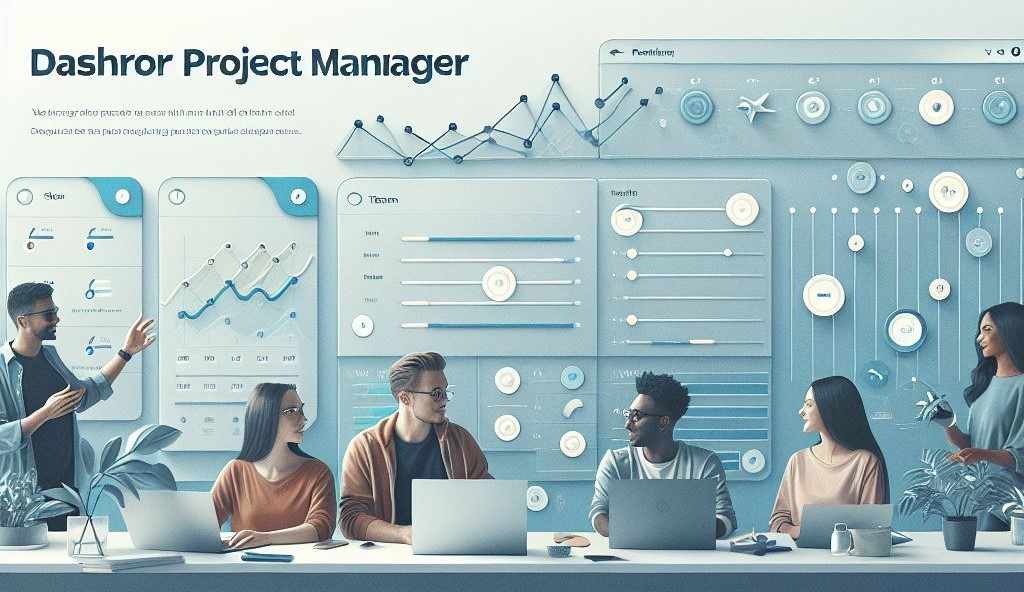
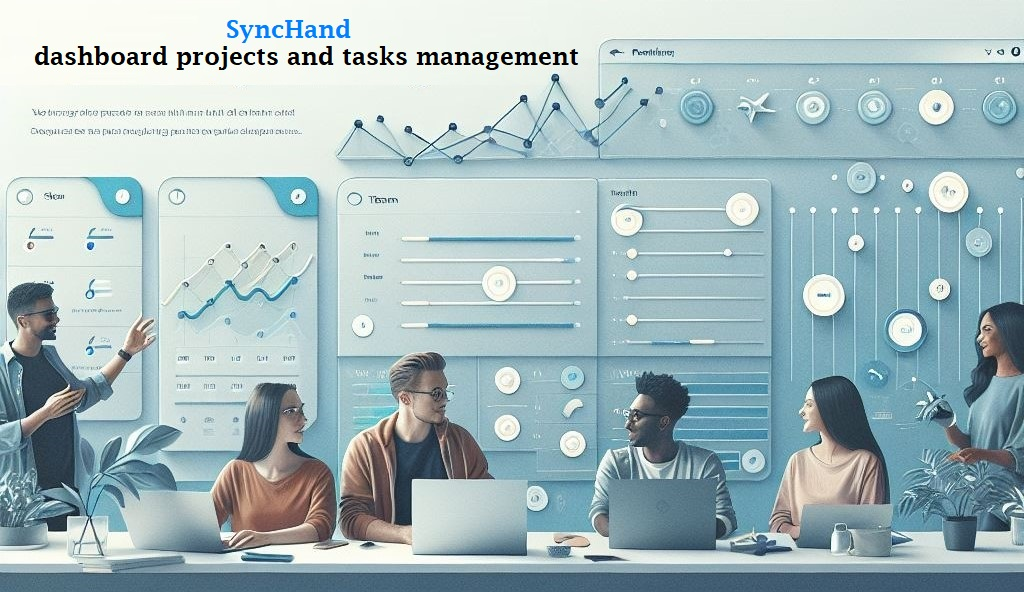
change landing page

Changed region(s): [[0.0312, 0.0304, 0.5625, 0.152]]

diff --git a/src/app/page.tsx b/src/app/page.tsx
@@ -134,7 +134,7 @@ const Features = () => {
   const features = [
     {
       id: 4,
-      name: "Smart Project and Tasks Management",
+      name: "Smart Projects and Tasks Management",
       icon: <Lightbulb className="text-sky-600 text-[32px]" />,
       description: `Create, edit, and delete projects and tasks with ease. Use sorting, filtering, and tabs to keep your workspace organized.
       `
@@ -153,7 +153,7 @@ const Features = () => {
   return (
     <div id="feature" data-aos="fade-down" className="py-12 bg-slate-50 mt-12 px-9">
       <div className="mx-auto px-4">
-        <h2 className="capitalize text-2xl font-bold text-center">synchand features</h2>
+        <h2 className="capitalize text-2xl font-bold text-center">syncHand features</h2>
         <div className="mt-12 grid grid-cols-1 md:grid-cols-3 gap-10 cursor-pointer ">
           {
             features.map((feature,index) => (
@@ -205,7 +205,7 @@ const About = () => {
   return (
     <div id="about" data-aos="fade-down" className="about-us bg-white mt-3 p-12">
       <div className="container mx-auto">
-        <h2 className="text-center font-semibold my-5 capitalize text-2xl">about us section</h2>
+        <h2 className="text-center font-semibold my-5 capitalize text-2xl">about us</h2>
         <div className="boxes flex justify-center items-center gap-4 max-sm:flex-col md:flex-col lg:flex-row">
           {
             infos.map((info,index) => (
@@ -263,7 +263,7 @@ const Contact = () => {
   return(
     <div id="contact" data-aos="fade-down" className="contact p-10 bg-slate-50 mt-2">
       <div className="container mx-auto">
-        <h2 className="text-center text-2xl capitalize my-4">contact us section</h2>
+        <h2 className="text-center text-2xl capitalize my-4">contact us</h2>
           <div className="flex justify-center lg:flex-row max-sm:flex-col md:flex-col items-center gap-8">
             <div className="max-sm:w-[100%] message-boxes w-[50%] mx-auto">
               <div className="boxes flex items-center justify-center flex-col gap-2">
@@ -332,7 +332,7 @@ const Footer = () => {
     <div data-aos="fade-down" className="w-full cursor-pointer bg-slate-100">
 
       <div className="w-full border-b border-slate-300 p-5 bg-slate-200 text-center cursor-pointer flex items-center justify-between gap-2 lg:flex-row max-sm:flex-col md:flex-col">
-          <p className="text-[18px]">Thank you for visit us</p>
+          <p className="text-[18px]">Thanks you for visiting us</p>
           <div className="flex justify-center items-center gap-3">
             {
               icons.map((icon: any) => (
